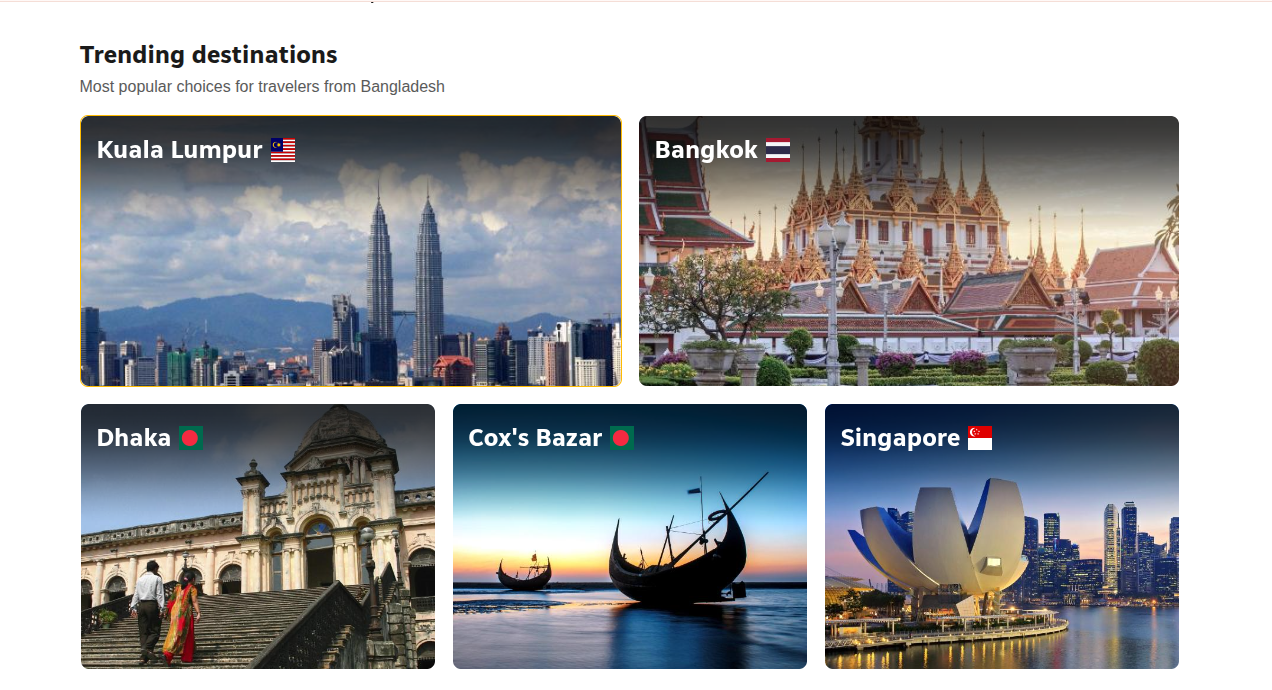
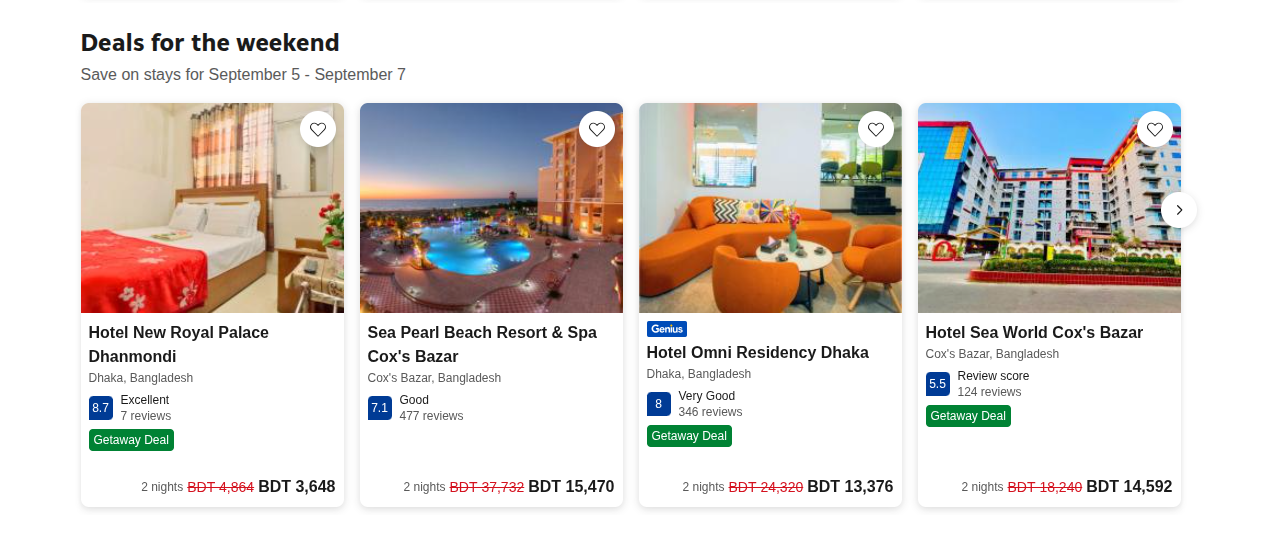
feat: Add discounted properties section with dynamic dates

diff --git a/resources/js/pages/welcome.tsx b/resources/js/pages/welcome.tsx
@@ -6,7 +6,31 @@ import { useEffect } from 'react';
 import { gsap } from 'gsap';
 
 export default function Welcome() {
-    const { auth, locations, topProperties } = usePage<SharedData>().props;
+    const { auth, locations, topProperties, discountedProperties } = usePage<SharedData>().props;
+
+    const getWeekendDates = () => {
+        const today = new Date();
+        let startDate = new Date(today);
+        let endDate = new Date(today);
+
+        // Find the next Friday (day 5) or current Friday if today is Friday or later
+        const dayOfWeek = today.getDay(); // 0 = Sunday, 1 = Monday, ..., 6 = Saturday
+        if (dayOfWeek <= 5) { // If today is Sunday to Friday
+            startDate.setDate(today.getDate() + (5 - dayOfWeek));
+        } else { // If today is Saturday
+            startDate.setDate(today.getDate() + (5 + 7 - dayOfWeek)); // Next Friday
+        }
+
+        endDate.setDate(startDate.getDate() + 2); // Sunday
+
+        const options: Intl.DateTimeFormatOptions = { month: 'long', day: 'numeric' };
+        const startMonthDay = startDate.toLocaleDateString('en-US', options);
+        const endMonthDay = endDate.toLocaleDateString('en-US', options);
+
+        return `${startMonthDay} - ${endMonthDay}`;
+    };
+
+    const weekendDates = getWeekendDates();
 
 
     useEffect(() => {
@@ -41,6 +65,15 @@ export default function Welcome() {
             ease: "power3.out",
             stagger: 0.1, // Stagger the animation for each card
             delay: 1.5, // Delay after the previous animations
+        });
+
+        gsap.from(".gsap-animated-discount-card", {
+            opacity: 0,
+            y: 50,
+            duration: 0.8,
+            ease: "power3.out",
+            stagger: 0.1, // Stagger the animation for each card
+            delay: 2, // Delay after the previous animations
         });
     }, []);
 
@@ -198,6 +231,34 @@ export default function Welcome() {
                     </div>
                 </section>
 
+            )}
+
+            {discountedProperties.length > 0 && (
+                <section className="max-w-7xl mx-auto px-6 py-10 lg:px-8">
+                    <h2 className="text-3xl font-bold mb-2">Deals for the weekend</h2>
+                    <p className="text-lg text-gray-600 mb-6">Save on stays for {weekendDates}</p>
+                    <div className="grid grid-cols-1 sm:grid-cols-2 lg:grid-cols-4 gap-6">
+                        {discountedProperties.map((property) => (
+                            <div key={property.id} className="bg-white rounded-lg shadow-md overflow-hidden gsap-animated-discount-card">
+                                {property.image_path && (
+                                    <img
+                                        src={property.image_path}
+                                        alt={property.title}
+                                        className="w-full h-48 object-cover"
+                                    />
+                                )}
+                                <div className="p-4">
+                                    <h3 className="text-xl font-bold mb-1">{property.title}</h3>
+                                    <p className="text-gray-600 text-sm mb-2">{property.address.city}, {property.address.country}</p>
+                                    <div className="flex items-center mb-2">
+                                        <span className="text-gray-500 line-through mr-2">${property.price_per_night}</span>
+                                        <span className="text-lg font-semibold text-red-600">${property.discount_price}</span>
+                                    </div>
+                                </div>
+                            </div>
+                        ))}
+                    </div>
+                </section>
             )}
 
 

diff --git a/resources/js/types/index.d.ts b/resources/js/types/index.d.ts
@@ -29,6 +29,7 @@ export interface SharedData {
     sidebarOpen: boolean;
     locations: Location[];
     topProperties: Property[];
+    discountedProperties: Property[];
     [key: string]: unknown;
 }
 
@@ -65,6 +66,7 @@ export interface Property {
     title: string;
     description: string;
     price_per_night: number;
+    discount_price?: number; // Added for discounted properties
     number_of_guests: number;
     number_of_bedrooms: number;
     number_of_beds: number;

diff --git a/routes/web.php b/routes/web.php
@@ -23,9 +23,20 @@ Route::get('/', function () {
             return $property;
         });
 
+    $discountedProperties = Property::with(['address', 'propertyImages'])
+        ->whereNotNull('discount_price')
+        ->inRandomOrder()
+        ->limit(4)
+        ->get()
+        ->map(function ($property) {
+            $property->image_path = $property->propertyImages->first() ? Storage::url($property->propertyImages->first()->image_path) : null;
+            return $property;
+        });
+
     return Inertia::render('welcome', [
         'locations' => $locations,
         'topProperties' => $topProperties,
+        'discountedProperties' => $discountedProperties,
     ]);
 })->name('home');
 

diff --git a/database/migrations/2025_09_02_110312_add_discount_price_to_properties_table.php b/database/migrations/2025_09_02_110312_add_discount_price_to_properties_table.php
@@ -1,0 +1,28 @@
+<?php
+
+use Illuminate\Database\Migrations\Migration;
+use Illuminate\Database\Schema\Blueprint;
+use Illuminate\Support\Facades\Schema;
+
+return new class extends Migration
+{
+    /**
+     * Run the migrations.
+     */
+    public function up(): void
+    {
+        Schema::table('properties', function (Blueprint $table) {
+            $table->decimal('discount_price', 10, 2)->nullable()->after('price_per_night');
+        });
+    }
+
+    /**
+     * Reverse the migrations.
+     */
+    public function down(): void
+    {
+        Schema::table('properties', function (Blueprint $table) {
+            $table->dropColumn('discount_price');
+        });
+    }
+};

diff --git a/app/Models/Property.php b/app/Models/Property.php
@@ -15,6 +15,7 @@ class Property extends Model
         'title',
         'description',
         'price_per_night',
+        'discount_price',
         'number_of_guests',
         'number_of_bedrooms',
         'number_of_beds',
